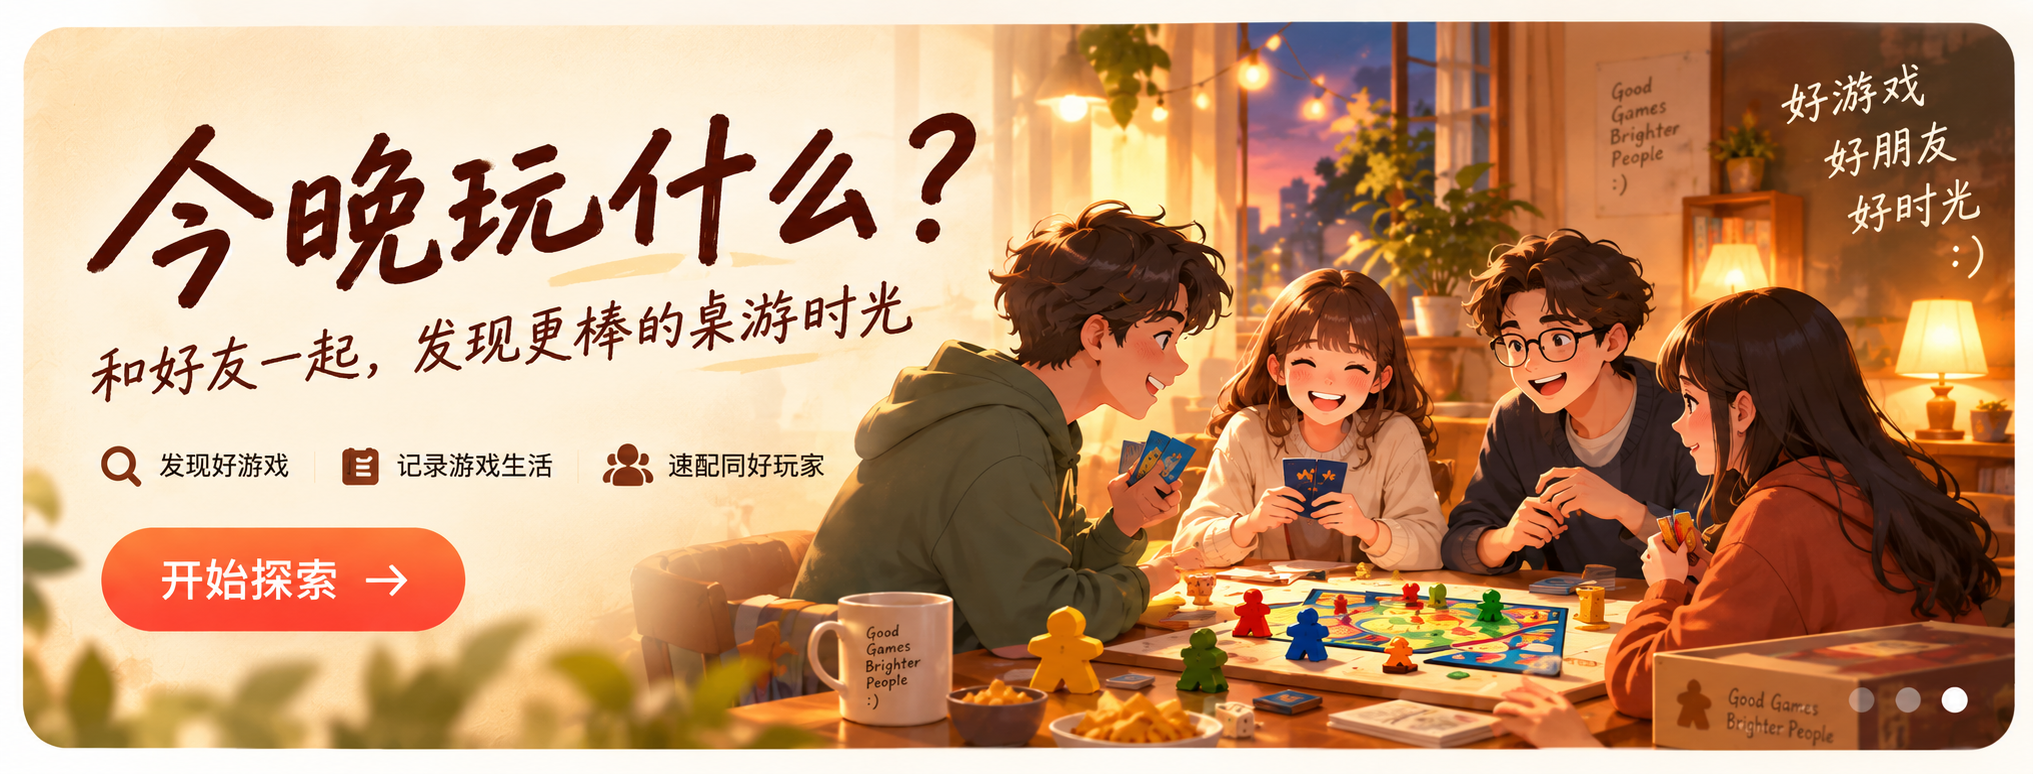
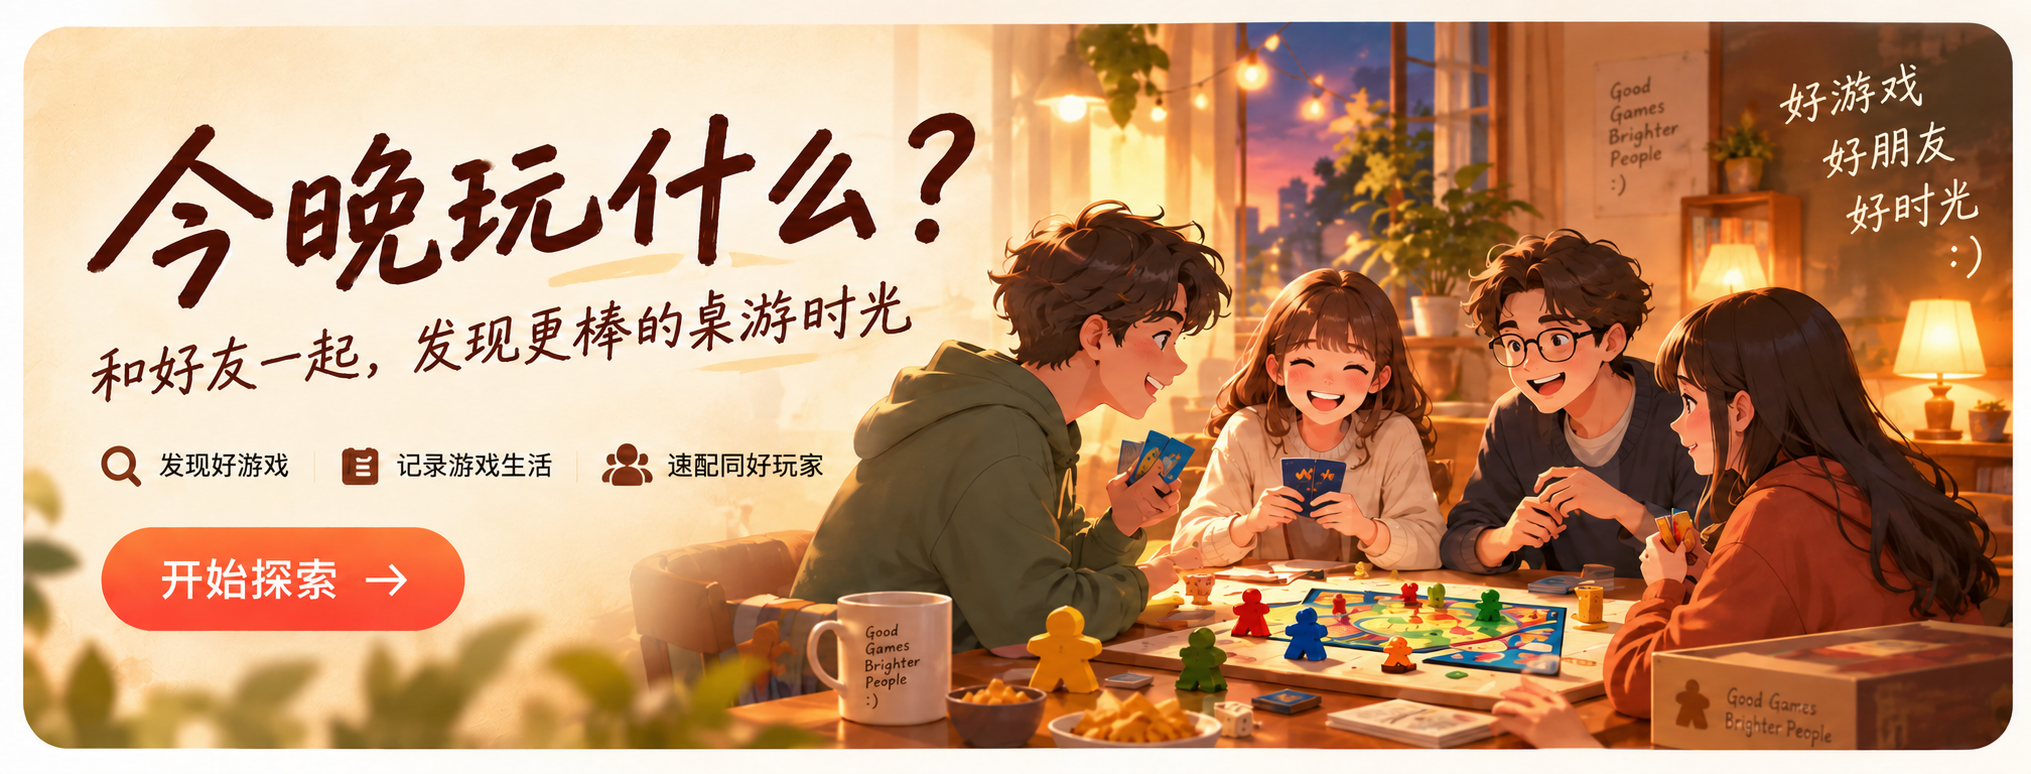
fix(v4): 完善游戏库空结果和首页入口
替换首页今晚玩什么横幅素材。\n空筛选结果不再插入额外提示，首页规则查询直接进入游戏库，并补充交互测试。

diff --git a/test/v4_workspace_test.dart b/test/v4_workspace_test.dart
@@ -222,22 +222,56 @@ void main() {
     expect(tester.takeException(), isNull);
   });
 
-  testWidgets('rules library remains reachable and shows real rule resources', (
+  testWidgets('home rules query shortcut navigates to the game library', (
     tester,
   ) async {
     await _mount(tester, controller, const Size(1280, 800));
-    await tester.tap(find.text('规则查询'));
-    await tester.pumpAndSettle();
-    expect(find.byType(DesktopWorkspaceScreen), findsOneWidget);
-    final state = tester.state<DesktopWorkspaceScreenState>(
-      find.byType(DesktopWorkspaceScreen),
+    await tester.tap(
+      find.byKey(const ValueKey<String>('home-quick-entry-rules')),
     );
-    expect(state.destinationName, 'library');
-    expect(controller.games, isNotEmpty);
+    await tester.pumpAndSettle();
+    expect(find.byType(V4GamesPane), findsOneWidget);
     expect(find.byType(V4HomePane), findsNothing);
+    expect(controller.games, isNotEmpty);
+    expect(
+      find.descendant(
+        of: find.byType(V4GamesPane),
+        matching: find.text(controller.games.first.title),
+      ),
+      findsWidgets,
+    );
     expect(tester.takeException(), isNull);
-    await _navigate(tester, '首页');
-    expect(find.byType(V4HomePane), findsOneWidget);
+  });
+
+  testWidgets('empty game filters do not insert an empty-state panel', (
+    tester,
+  ) async {
+    await _mount(tester, controller, const Size(1280, 800));
+    await _navigate(tester, '游戏库');
+    expect(
+      controller.games.where(
+        (game) =>
+            '${game.categoryLine} ${game.keywords.join(' ')}'.contains('合作') &&
+            game.supportedPlayers.any((players) => players >= 5),
+      ),
+      isEmpty,
+    );
+
+    await tester.tap(
+      find.descendant(of: find.byType(V4GamesPane), matching: find.text('合作')),
+    );
+    await tester.tap(find.text('筛选'));
+    await tester.pumpAndSettle();
+    await tester.tap(
+      find.descendant(of: find.byType(AlertDialog), matching: find.text('5+')),
+    );
+    await tester.tap(find.text('应用'));
+    await tester.pumpAndSettle();
+
+    expect(find.text('暂无符合条件的游戏'), findsNothing);
+    expect(find.text('请选择游戏'), findsNothing);
+    expect(find.text('暂无游戏，请在资料库检查资源。'), findsNothing);
+    expect(tester.takeException(), isNull);
   });
 
   testWidgets('home hero exposes three manually selectable carousel pages', (

diff --git a/lib/ui/v4/v4_games.dart b/lib/ui/v4/v4_games.dart
@@ -67,19 +67,6 @@ class _V4GamesPaneState extends State<V4GamesPane> {
             controller: widget.controller,
             onOpenLibrary: () => widget.onNavigate('library'),
           ),
-          if (games.isEmpty)
-            Padding(
-              padding: const EdgeInsets.all(16),
-              child: Column(
-                children: [
-                  const Text('暂无符合条件的游戏'),
-                  TextButton(
-                    onPressed: () => widget.onNavigate('library'),
-                    child: const Text('打开资料库'),
-                  ),
-                ],
-              ),
-            ),
           _LibraryMain(
             games: games,
             selectedIndex: index,
@@ -107,7 +94,7 @@ class _V4GamesPaneState extends State<V4GamesPane> {
         rightWidth: 360,
         main: main,
         right: selected == null
-            ? const SizedBox(height: 648, child: Center(child: Text('请选择游戏')))
+            ? const SizedBox.shrink()
             : _GameDetailPanel(
                 game: selected,
                 favorite: false,

diff --git a/lib/ui/v4/v4_content_primitives.dart b/lib/ui/v4/v4_content_primitives.dart
@@ -151,7 +151,7 @@ class V4ContentStatus extends StatelessWidget {
   Widget build(BuildContext context) {
     final loading = controller.homeAssetsLoading;
     final error = controller.libraryLoadError;
-    if (!loading && error == null && controller.hasGames) {
+    if (!loading && error == null) {
       return const SizedBox.shrink();
     }
     return Padding(
@@ -159,14 +159,8 @@ class V4ContentStatus extends StatelessWidget {
       child: Column(
         children: [
           if (loading) const LinearProgressIndicator(),
-          Text(
-            error != null
-                ? '资料加载失败，请在资料库重试。'
-                : loading
-                ? '正在加载游戏…'
-                : '暂无游戏，请在资料库检查资源。',
-          ),
-          if (error != null || !loading)
+          Text(error != null ? '资料加载失败，请在资料库重试。' : '正在加载游戏…'),
+          if (error != null)
             TextButton(onPressed: onOpenLibrary, child: const Text('打开资料库')),
         ],
       ),

diff --git a/lib/ui/v4/v4_home.dart b/lib/ui/v4/v4_home.dart
@@ -36,7 +36,7 @@ class V4HomePane extends StatelessWidget {
         final route = {
           '开始探索': 'games',
           '游戏库': 'games',
-          '规则查询': 'library',
+          '规则查询': 'games',
           'AI助手': 'assistant',
         }[label];
         if (route != null) {
@@ -842,6 +842,9 @@ class _QuickPanel extends StatelessWidget {
                 itemBuilder: (context, i) {
                   final a = actions[i];
                   return HoverSurface(
+                    key: a.$1 == '规则查询'
+                        ? const ValueKey<String>('home-quick-entry-rules')
+                        : null,
                     onTap: () => onUnavailable(a.$1),
                     lift: 1,
                     borderRadius: BorderRadius.circular(9),
